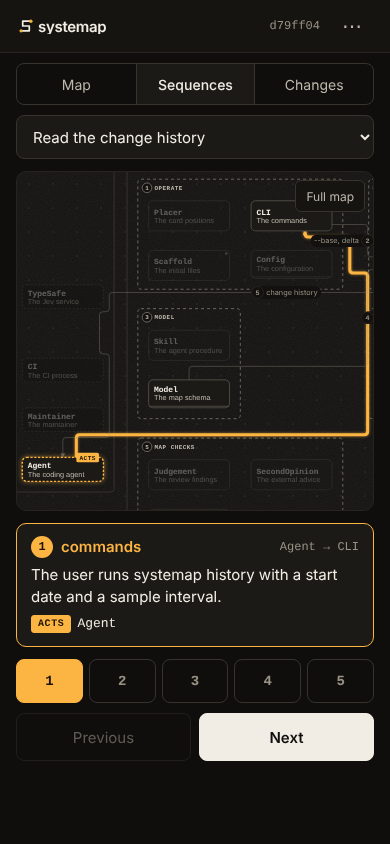
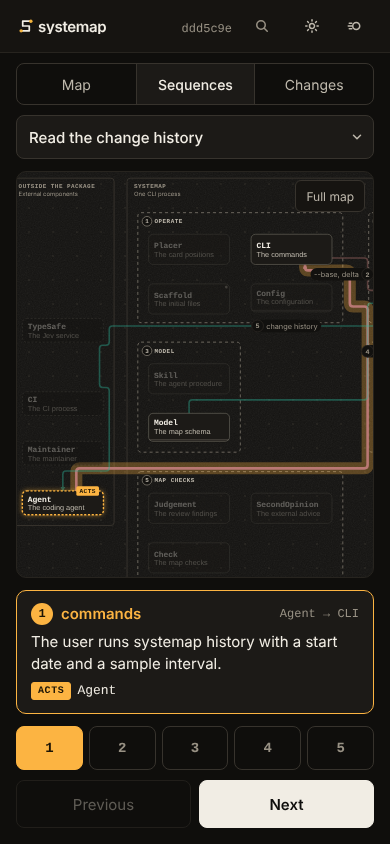
Show the default Reduce motion state in the README screenshots
The screenshot script stopped motion through the page setting, so the
Reduce motion button showed as on. A style now stops CSS transitions and
animations, and the button keeps its default state.

Claude-Session: https://claude.ai/code/session_01TnvvRH5yFNjcFPyQkRQMog

diff --git a/scripts/screenshots.py b/scripts/screenshots.py
@@ -89,9 +89,10 @@ def render(root: Path) -> str:
 
 
 def seeded(html: str, scheme: str, guide: bool = True) -> str:
-    """The page with the browser's storage seeded to one scheme and to Reduce
-    motion, ahead of the page's own head script, which reads them back and
-    stamps the root. With Reduce motion, each screenshot shows a final state.
+    """The page with the browser's storage seeded to one scheme, ahead of the
+    page's own head script, which reads it back and stamps the root. A style
+    stops CSS transitions and animations, so each screenshot shows a final
+    state, and the Reduce motion button keeps its default state (off).
 
     The guide card shows only on a first visit. Without `guide`, the
     storage records that visit as done and the card does not show."""
@@ -99,7 +100,8 @@ def seeded(html: str, scheme: str, guide: bool = True) -> str:
     seed = (
         "<script>try{localStorage.setItem("
         f"{json.dumps(page.SCHEME_KEY)},{json.dumps(scheme)});"
-        f"localStorage.setItem({json.dumps(page.MOTION_KEY)},'true');{done}}}catch(e){{}}</script>"
+        f"{done}}}catch(e){{}}</script>"
+        "<style>*,*::before,*::after{transition:none!important;animation:none!important}</style>"
     )
     return html.replace('<meta charset="utf-8">', '<meta charset="utf-8">' + seed, 1)
 
